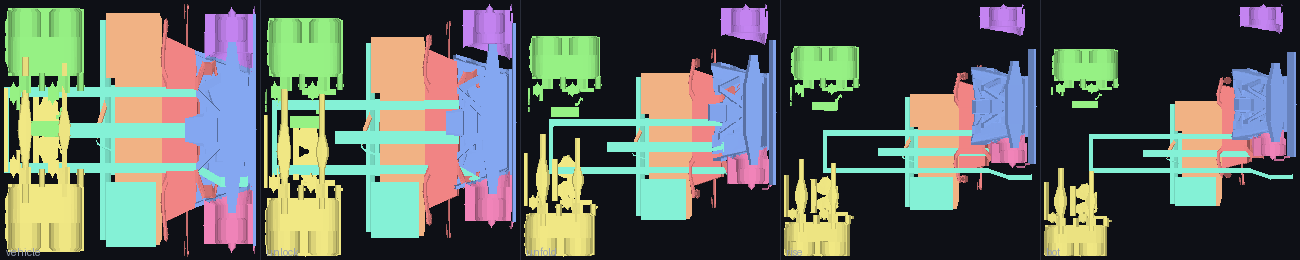
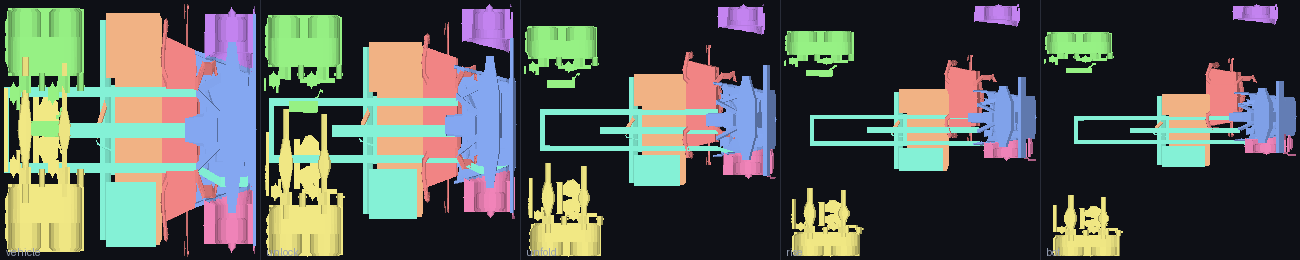
blackstar: pose bot modes against the corpus's real rig instead of invented offsets
dude.iqm is the only rigged model in engine_src/data - 20 joints, a standard
biped - and its PROPORTIONS are what the bot poses needed. Measured from the
joint chains:

  leg 5.32 : torso 2.76 : arm 2.68     roughly 2 : 1 : 1
  shoulder halfwidth 0.57, hip 0.32    shoulders 1.78x hips
  head at the top of the torso chain

Those replace the numbers I had picked by eye. They are expressed as fractions
of the vehicle's own height so they transfer to any model at any scale, which
matters when the target is 2,133 of them.

One change that does more than the ratios: the vehicle's LENGTH axis becomes the
bot's height. A truck stands up on end, which is what makes a long vehicle read
as a tall robot rather than a wide one - and it is the difference between a pile
of separated parts and something with a stance.

Rotations stay deliberately modest for the same reason as before: a
transformation that flings parts across the frame stops reading as the same
object folding.

Sample sheets regenerated for optimusprimetrucktransformveh (116 components ->
8 regions: torso/head/pack/arms/legs) and scorponoktrnasformershumanlmb (1,009
components -> 8 regions). Scorponok's arm_r x5 remains the analyser honestly
reporting a scorpion's paired limbs through humanoid slot names - the fix for
that is a second slot vocabulary for non-biped body plans, not forcing this one
to lie.

Changed region(s): [[0.1846, 0.0, 1.0, 0.9846], [0.9231, 0.0, 1.0, 0.1231]]

diff --git a/games/blackstar/game-model-tools/python/transform_collage.py b/games/blackstar/game-model-tools/python/transform_collage.py
@@ -153,37 +153,62 @@ def assign_slots(regions, lo, hi):
     return regions
 
 # ---------------------------------------------------------------- transform
+# Proportions measured from engine_src/data/dude.iqm, the corpus's only rigged
+# model (20 joints, a standard biped). Using a real rig's ratios rather than
+# invented offsets is what stops the bot mode looking like scattered parts:
+#
+#   chain lengths   leg 5.32 : torso 2.76 : arm 2.68   (roughly 2 : 1 : 1)
+#   shoulder halfwidth 0.57, hip halfwidth 0.32        (shoulders 1.78x hips)
+#   head sits at the top of the torso chain
+#
+# Expressed as fractions of the vehicle's own height so they transfer to any
+# model regardless of scale.
+SKEL = {
+    "leg_len":   5.32 / 2.76,   # legs are ~1.93x the torso
+    "arm_len":   2.68 / 2.76,   # arms ~0.97x
+    "shoulder":  0.57 / 2.76,
+    "hip":       0.32 / 2.76,
+    "head_up":   1.0,           # head at the torso's top
+}
+
 def bot_pose(r, lo, hi):
     """Where this region ends up in bot mode, as a rigid transform.
 
-    Deliberately modest rotations: a transformation that flings parts across the
-    frame stops reading as the same object folding, which is the whole illusion."""
+    Placed against dude.iqm's proportions rather than by eye. Rotations stay
+    modest deliberately: a transformation that flings parts across the frame
+    stops reading as the same object folding, which is the whole illusion."""
     la, sa, ua = r["axes"]
-    span = [max(hi[i]-lo[i], 1e-6) for i in range(3)]
+    span = [max(hi[i] - lo[i], 1e-6) for i in range(3)]
+    # the vehicle's LENGTH becomes the bot's height — a truck stands up on end,
+    # which is what makes a long vehicle read as a tall robot
+    height = span[la]
+    torso = height * 0.34
     t = [0.0, 0.0, 0.0]
     ang = 0.0
     slot = r["slot"]
     if slot == "torso":
-        t[ua] += span[ua] * 0.35            # stand up
-        ang = 0.12
+        t[ua] += torso * 0.55
+        ang = 0.10
     elif slot == "head":
-        t[ua] += span[ua] * 0.95
-        t[la] -= span[la] * 0.08
+        t[ua] += torso * (0.55 + SKEL["head_up"] * 0.62)
+        t[la] -= span[la] * 0.06
     elif slot == "pack":
-        t[ua] += span[ua] * 0.55
-        t[la] -= span[la] * 0.18
+        t[ua] += torso * 0.85
+        t[la] -= span[la] * 0.14
     elif slot.startswith("arm"):
-        t[ua] += span[ua] * 0.55
-        t[sa] += span[sa] * (0.42 if slot.endswith("_r") else -0.42)
-        t[la] -= span[la] * 0.05
-        ang = -0.55
+        side = 1.0 if slot.endswith("_r") else -1.0
+        t[ua] += torso * 0.62                                   # shoulder height
+        t[sa] += torso * SKEL["shoulder"] * side * 2.4          # shoulder width
+        t[ua] -= torso * SKEL["arm_len"] * 0.30                 # hanging arm
+        ang = -0.45 * side
     elif slot.startswith("leg"):
-        t[ua] -= span[ua] * 0.30
-        t[sa] += span[sa] * (0.16 if slot.endswith("_r") else -0.16)
-        t[la] -= span[la] * 0.22
-        ang = 0.35
+        side = 1.0 if slot.endswith("_r") else -1.0
+        t[ua] -= torso * SKEL["leg_len"] * 0.42                 # legs drop ~2x torso
+        t[sa] += torso * SKEL["hip"] * side * 2.4               # hip width
+        t[la] -= span[la] * 0.10
+        ang = 0.22
     else:
-        t[ua] += span[ua] * 0.12
+        t[ua] += torso * 0.18
     return t, ang, ua
 
 def stage_transform(r, lo, hi, s, n_stages):
